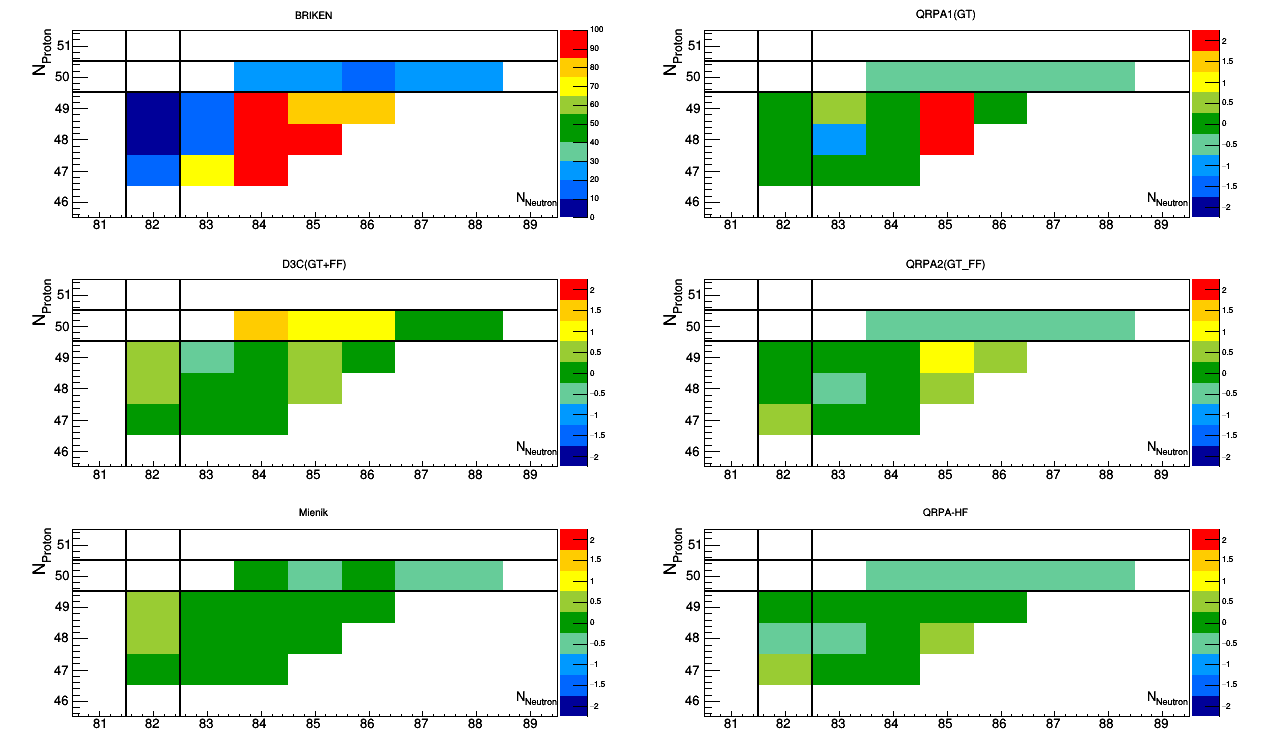
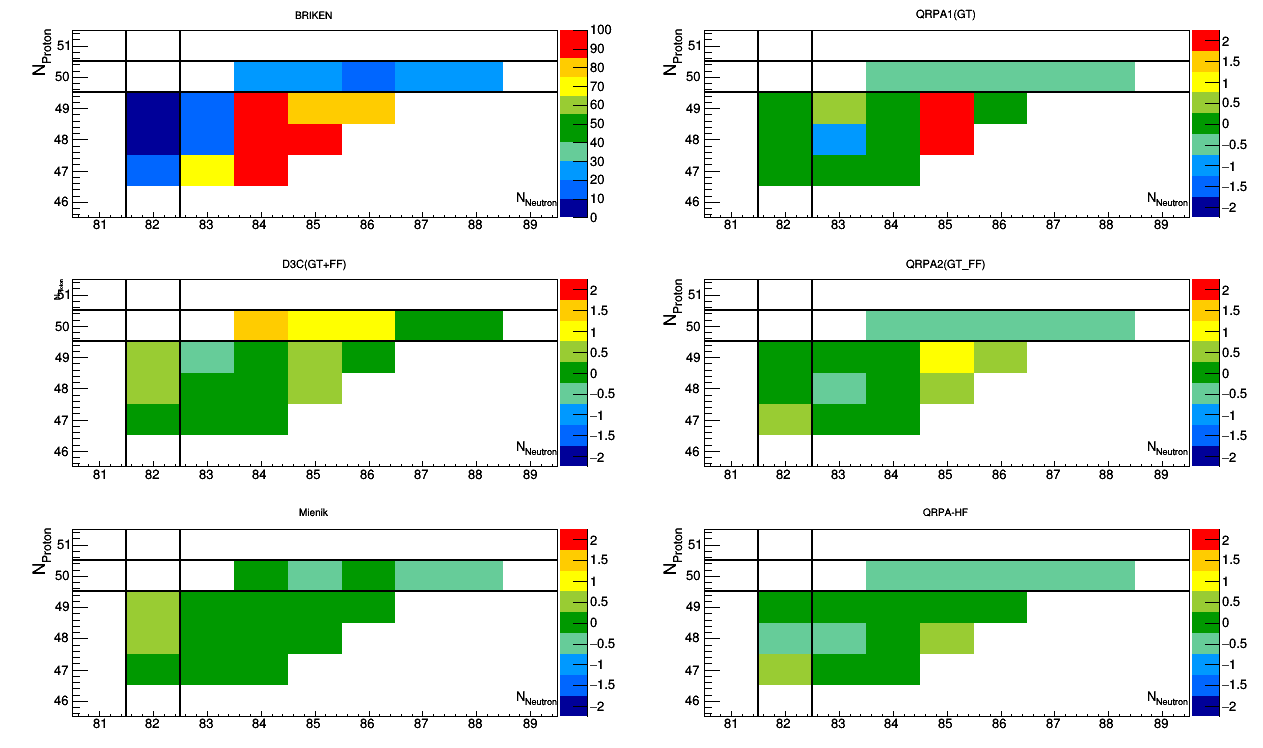
modified plots

diff --git a/analysis/plotresults/nishimurasan/result.C b/analysis/plotresults/nishimurasan/result.C
@@ -362,8 +362,14 @@ void result()
     }
   }
 
+  hexp0->GetZaxis()->SetLabelSize(0.06);
+  hexp1->GetZaxis()->SetLabelSize(0.06);
+  hexp2->GetZaxis()->SetLabelSize(0.06);
+  hexp3->GetZaxis()->SetLabelSize(0.06);
+  hexp4->GetZaxis()->SetLabelSize(0.06);
+  hexp5->GetZaxis()->SetLabelSize(0.06);
 
-  c1->cd(2)->SetLogz(mylog); hexp1->Draw("colz");    
+  c1->cd(2)->SetLogz(mylog);  hexp1->Draw("colz");
   //  c1->cd(2)->SetLogz(mylog); hexp1->Draw("box");    
   a1.SetLineWidth(2.0);  a1.SetLineColor(1);
   a1.DrawLine(82-dd,46-dd,82-dd,52-dd); a1.DrawLine(83-dd,46-dd,83-dd,52-dd);
